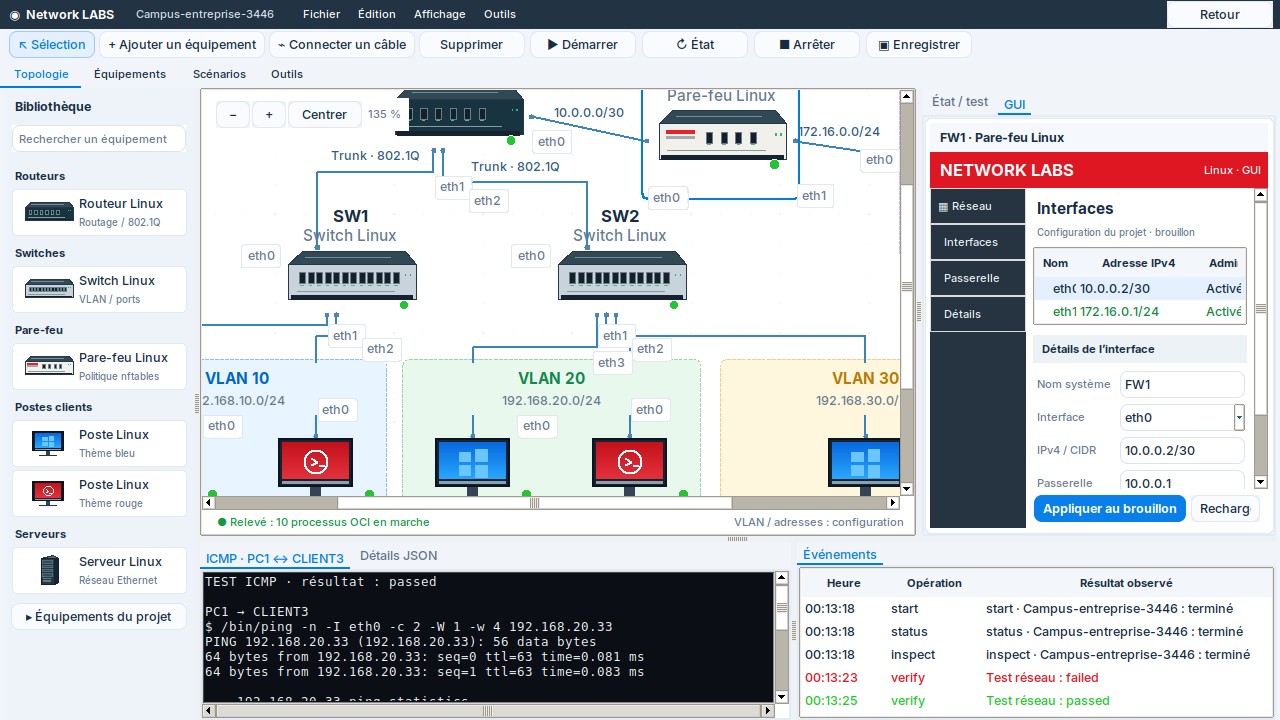
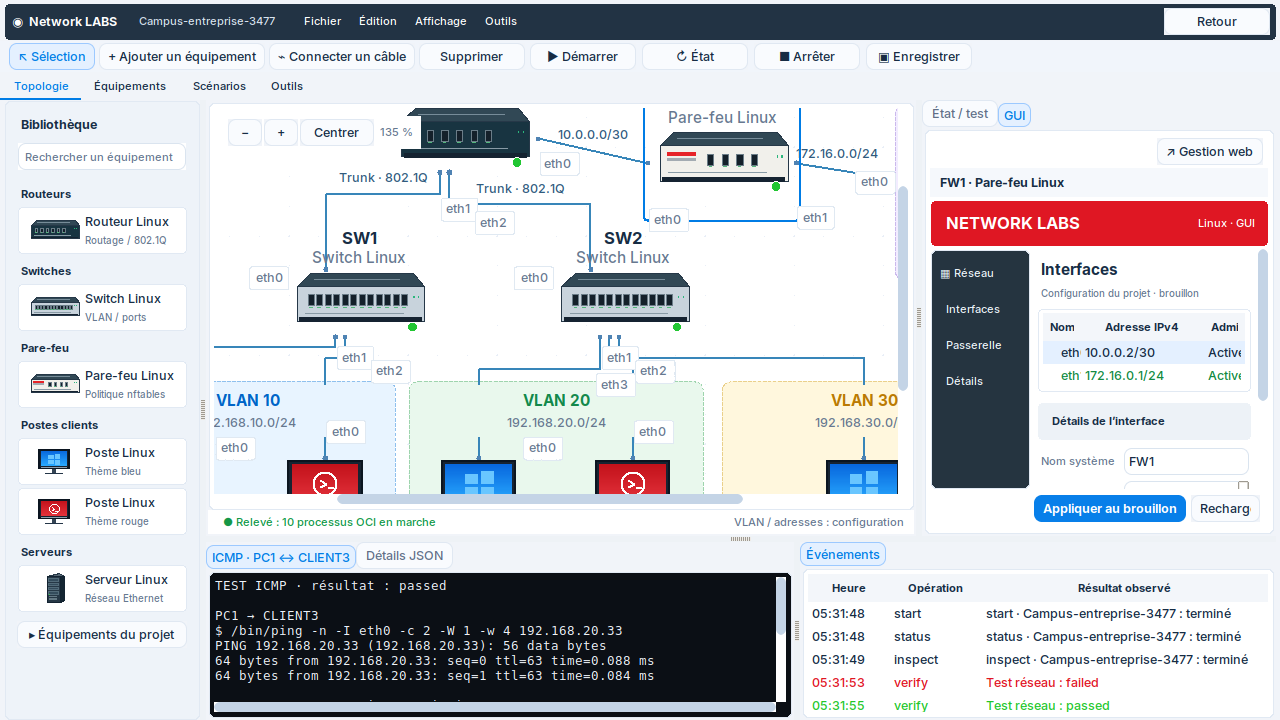
Complete rounded dialog controls and retain verified native web-to-OCI evidence [skip ci]

Changed region(s): [[0.0, 0.0, 1.0, 1.0]]

diff --git a/network_labs/appliances/ui.py b/network_labs/appliances/ui.py
@@ -171,12 +171,12 @@ class ApplianceWindow:
         self.label(details,'Vert : processus actif. Tester le réseau.',MUTED,7).pack(side='bottom',padx=12,pady=6)
         self.editor=self.text_area(self.editor_tab);self.output=self.text_area(self.output_tab);self.output.configure(state='disabled',background='#0b0f15',foreground='#edf1f7',insertbackground='white');self.output.master.configure(bg='#0b0f15');self.output.master.master.face='#0b0f15'
         self.raw_output=self.text_area(self.raw_tab);self.raw_output.configure(state='disabled')
-        validate_button=ttk.Button(self.editor_tab,text='Valider / plan',command=self.preview);validate_button.grid(row=2,column=0,sticky='e',pady=4);self.buttons.append(validate_button)
-        self.table=ttk.Treeview(diagnostics,columns=('runtime','implementation','detected','scope'),show='headings')
+        validate_button=ttk.Button(self.editor_tab,text='Valider / plan',command=self.preview,style='Native.TButton');validate_button.grid(row=2,column=0,sticky='e',pady=4);self.buttons.append(validate_button)
+        self.table=ttk.Treeview(diagnostics,columns=('runtime','implementation','detected','scope'),show='headings',style='Native.Treeview')
         for key,title,width in [('runtime','Runtime',100),('implementation','Implémentation',100),('detected','Détecté',80),('scope','Périmètre',360)]:
             self.table.heading(key,text=title);self.table.column(key,width=width)
         self.table.pack(fill='both',expand=True)
-        ttk.Button(diagnostics,text='Actualiser les dépendances',command=self.refresh).pack(anchor='w',padx=8,pady=6)
+        ttk.Button(diagnostics,text='Actualiser les dépendances',command=self.refresh,style='Native.TButton').pack(anchor='w',padx=8,pady=6)
         footer=tk.Frame(self.window,bg=PANEL,padx=10,pady=3);footer.grid_forget()
         self.counts=tk.StringVar();self.label(footer,'Sélection · état natif observé sur demande',MUTED,9).pack(side='left')
         tk.Label(footer,textvariable=self.counts,bg=PANEL,fg=TEAL,font=(self.font,8)).pack(side='right')
@@ -657,7 +657,7 @@ class ApplianceWindow:
         def browse():
             path=filedialog.askdirectory(parent=win,title='Rootfs Linux')
             if path:values['rootfs'].set(path)
-        ttk.Button(form,text='Parcourir…',command=browse).grid(row=2,column=2)
+        ttk.Button(form,text='Parcourir…',command=browse,style='Native.TButton').grid(row=2,column=2)
         ttk.Label(form,text='Linux natif · pare-feu : trafic transitant bloqué par défaut.').grid(row=5,column=0,columnspan=3,pady=8)
         def apply():
             try:
@@ -665,8 +665,8 @@ class ApplianceWindow:
                 result=topology_edit.add_node(current,**{k:v.get().strip() for k,v in values.items() if k!='ports'},ports=int(values['ports'].get()),firewall={'default':'drop','stateful':True,'rules':[]} if values['role'].get()=='firewall' else None)
                 self.commit_edit(result);self.choose_node(values['name'].get().strip());win.destroy()
             except (ValueError,TypeError,KeyError) as error:self.error(error)
-        ttk.Button(form,text='Ajouter au brouillon',command=apply).grid(row=6,column=1,sticky='e')
-        ttk.Button(form,text='Annuler',command=win.destroy).grid(row=6,column=0)
+        ttk.Button(form,text='Ajouter au brouillon',command=apply,style='Native.Primary.TButton').grid(row=6,column=1,sticky='e')
+        ttk.Button(form,text='Annuler',command=win.destroy,style='Native.TButton').grid(row=6,column=0)
 
     def connect_dialog(self,first,second):
         try:
@@ -681,15 +681,15 @@ class ApplianceWindow:
         for row,(name,available) in enumerate(zip((first,second),choices)):
             ttk.Label(form,text=name+(' · nouveau port' if name in additions else '')).grid(row=row,column=0,pady=6)
             var=tk.StringVar(value=available[0]);ports.append(var)
-            ttk.Combobox(form,textvariable=var,values=available,state='readonly').grid(row=row,column=1,padx=8)
+            ttk.Combobox(form,textvariable=var,values=available,state='readonly',style='Native.TCombobox',font=(self.font,9)).grid(row=row,column=1,padx=8)
         def apply():
             try:
                 draft=self.editing_spec()
                 for name,port in additions.items():draft=topology_edit.add_port(draft,name,port)
                 self.commit_edit(topology_edit.connect(draft,(first,ports[0].get()),(second,ports[1].get())));win.destroy()
             except (ValueError,TypeError,KeyError) as error:self.error(error)
-        ttk.Button(form,text='Connecter au brouillon',command=apply).grid(row=2,column=1,pady=8)
-        ttk.Button(form,text='Annuler',command=win.destroy).grid(row=2,column=0)
+        ttk.Button(form,text='Connecter au brouillon',command=apply,style='Native.Primary.TButton').grid(row=2,column=1,pady=8)
+        ttk.Button(form,text='Annuler',command=win.destroy,style='Native.TButton').grid(row=2,column=0)
 
     def delete_selected(self):
         selected=self.nodes.selection()

diff --git a/docs/NATIVE_GUI_FLOW.md b/docs/NATIVE_GUI_FLOW.md
@@ -94,7 +94,7 @@ This is the actual Xvfb capture after real native verification.
 The public [operation report](images/native-gui-result.json) records the UI UID,
 result-file owners, native probe and stop outcome. The
 [provenance record](images/native-gui-provenance.json) binds both screenshots and the report to
-artifact 13550324801, source commit and run/job, with the verified original ZIP
+artifact 13562216866, source commit and run/job, with the verified original ZIP
 SHA-256 and individual file hashes. The desktop/native job passed on the same commit.
 
 ## Previous desktop layout (rejected as the design reference)
@@ -558,3 +558,23 @@ container service. [Browser provenance](images/native-web-provenance.json)
 records its exact source and successful browser interactions. The native OCI
 traffic scenario separately verifies that an HTTP-configured address becomes
 reachable after starting the saved draft.
+
+
+Native web acceptance on source d0e6df1 passed the
+[desktop/native job](https://github.com/sou1915/Network-LABS/actions/runs/42342996553/job/128314605964):
+1055 general cases (57.839 s, 117 skips, including the optional browser check)
+and the actual ten-node native scenario (12.055 s). The scenario applied
+CLIENT3's IPv4 through real authenticated HTTP, saw the same value in Tk,
+started the saved draft, and verified kernel ICMP delivery to 192.168.20.33.
+Default-drop firewall-path failure, seven UID-1001 results, root-state refusal,
+confirmed stop and callback/host-network cleanup invariants passed.
+`native_web_http_apply_verified: true` is retained in the report.
+
+Current normal/zoomed screenshots and report bind to artifact 13562216866,
+source d0e6df1, run 42342996553/job 128314605964. ZIP SHA-256 is
[1 lines of base64/hex data omitted]
+The browser screenshot separately records actual local Chromium interactions;
+its local full suite passed 1054 cases (55.851 s, 141 skips), followed by the
+additional switch/DHCP readonly check. Fifteen actual Tk checks passed after
+applying the same rounded control styles to add/cable dialogs and tools.
+That final style-only extension does not change the HTTP/runtime path.

diff --git a/docs/CODEX_HANDOFF.md b/docs/CODEX_HANDOFF.md
@@ -47,6 +47,15 @@ lab was started for that local browser capture. The dedicated GitHub native
 scenario now applies CLIENT3's actual address through HTTP before real probes.
 See NATIVE_GUI_FLOW.md. LAN core stays frozen; VXLAN remains later.
 
+The [desktop/native job](https://github.com/sou1915/Network-LABS/actions/runs/42342996553/job/128314605964)
+passed 1055 cases (57.839 s, 117 skips) and the actual HTTP-configured native
+campus scenario (12.055 s). The HTTP-edited address was reached through R1;
+firewall-path failure, seven UID-1001 results, root-state refusal, stop and
+host cleanup passed. Normal/zoomed screenshots/report/provenance now bind to
+artifact 13562216866 at d0e6df1. The final style-only extension applies the
+same rounded controls to add/cable dialogs and tools; fifteen focused Tk
+checks passed afterwards. It does not change the validated runtime path.
+
 ## Previous GUI typography and interaction checkpoint
 
 Latest user feedback rejects the old typeface and sharp edges and explicitly
